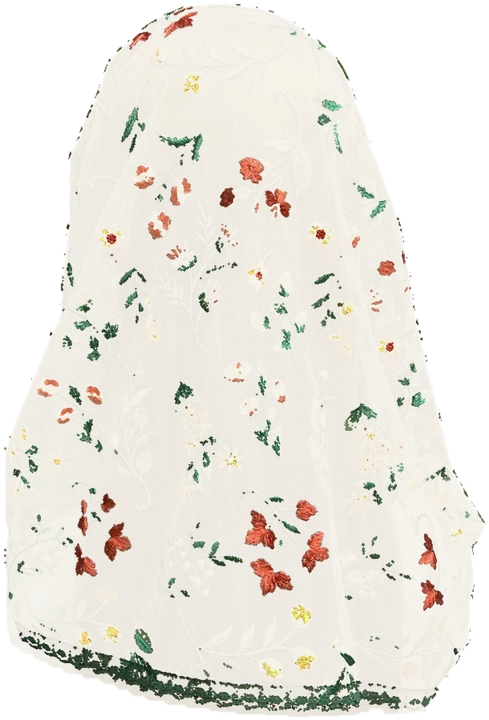
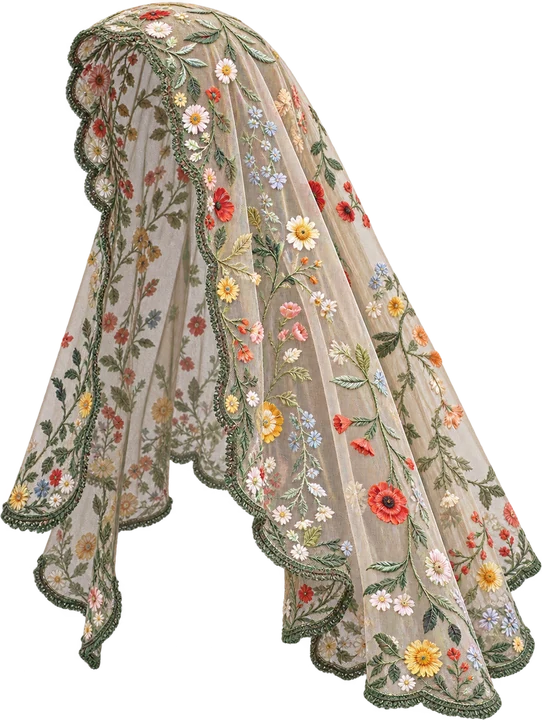
update

diff --git a/src/palais/clothes.ts b/src/palais/clothes.ts
@@ -305,6 +305,7 @@ export const CLOTHES = wardrobe({
   "peacock-dress": { label: "Peacock dress · beaded sheer bodice and a train of peacock feathers", store: "Closet", bought: "", kind: "gown" },
   "rhianna-dress": { label: "Rhianna dress · marigold brocade gown trimmed in fur", store: "Closet", bought: "", kind: "gown" },
   "yellow-ball-gown": { label: "Yellow ball gown · beaded corset and sunset organza", store: "Closet", bought: "", kind: "gown" },
+  "etsy-wildflower-embroidered-gown": { label: "Ivory tulle gown embroidered with wildflowers", store: "Etsy", bought: "", kind: "gown" },
   "peacock-wings": { label: "Peacock feather wings", store: "Closet", bought: "", kind: "accessory" },
   "outfit_suit_brocade_robe_crimson_gold_regal_sticker": { label: "Crimson suit under a gold brocade robe · black gloves and jeweled brooches", store: "Closet", bought: "", kind: "robe" },
   "cape_royal_pleated_jeweled_cobalt_blue_sticker": { label: "Royal cobalt blue pleated cape · jeweled capelet trimmed in ivory fur", store: "Closet", bought: "", kind: "robe" },
@@ -434,7 +435,7 @@ const WIDE: Line[] = [
   { id: "window-hooks-left", name: "Window moulding · hooks down the left", ids: ["pink-sherpa-pom-pom-bucket-bag"], from: [601, 336], to: [601, 636], w: [54, 54], hang: true, z: 36, hooks: 6 },
   { id: "seat", name: "Window seat", ids: ["temu-saddle-bag", "shein-fluffy-shawl", "temu-bow-handbag", "white-prada-re-edition-shoulder-bag", "louis-vuitton-denim-monogram-pochette", "louis-vuitton-damier-azur-felicie-pochette"], from: [918, 690], to: [1020, 690], w: [74, 74], z: 20 },
   // the two rolling rails
-  { id: "rack-left", name: "Left rolling rack", ids: ["ref-shai-dress", "amz-tulle-dress-blue", "amz-tulle-dress-green", "cider-ruffle-velvet-dress", "amz-fairies-dress", "temu-ditsy-splitdress", "temu-satin-robe", "cider-velvet-corset-dress", "shein-green-organza-dress", "wona-istanbul-chiffon-ruffle-dress-black", "blue-corset-mini-dress", "black-beige-pleated-belted-dress", "denim-corset-flared-dress", "hm-black-white-piped-keyhole-mini-dress", "mint_green_ruffled_corset_gown_sticker", "powder_blue_scarf_maxi_dress_sticker", "arianna-dress", "peacock-dress", "rhianna-dress", "yellow-ball-gown", "navy-celestial-velvet-gown", "black-bow-glitter-tulle-gown"], from: [622, 612], to: [868, 612], w: [118, 118], hang: true, z: 46 },
+  { id: "rack-left", name: "Left rolling rack", ids: ["ref-shai-dress", "amz-tulle-dress-blue", "amz-tulle-dress-green", "cider-ruffle-velvet-dress", "amz-fairies-dress", "temu-ditsy-splitdress", "temu-satin-robe", "cider-velvet-corset-dress", "shein-green-organza-dress", "wona-istanbul-chiffon-ruffle-dress-black", "blue-corset-mini-dress", "black-beige-pleated-belted-dress", "denim-corset-flared-dress", "hm-black-white-piped-keyhole-mini-dress", "mint_green_ruffled_corset_gown_sticker", "powder_blue_scarf_maxi_dress_sticker", "arianna-dress", "peacock-dress", "rhianna-dress", "yellow-ball-gown", "etsy-wildflower-embroidered-gown", "navy-celestial-velvet-gown", "black-bow-glitter-tulle-gown"], from: [622, 612], to: [868, 612], w: [118, 118], hang: true, z: 46 },
   { id: "rack-right", name: "Right rolling rack", ids: ["dh-puffer-jacket", "etsy-burgundy-velvet-hooded-coat", "white-fur-hood-parka", "dh-goose-jacket-pink", "amz-floral-sweatshirt", "shein-halfzip", "temu-tie-cardigan", "temu-heart-bikini", "dh-fur-coat", "dh-cc-bikini", "tt-striped-vest-set", "tt-striped-collar-set", "rhone-utility-trench-navy", "zeagoo-fur-lapel-wool-coat-navy", "maroon-wool-trench-coat", "green-wool-cropped-jacket-ruffle-skirt-set", "navy_satin_lace_slip_dress_sticker", "cream_rose_floral_lace_dress_sticker", "ivory_satin_lace_slip_dress_sticker", "forest_green_lace_satin_dress_sticker"], from: [1066, 612], to: [1314, 612], w: [112, 104], hang: true, z: 46 },
   // every pair of shoes, lined up on the tiles in front
   { id: "shoes", name: "Shoes on the floor", ids: ["shein-mint-maryjanes", "amz-coutgo-heels", "amz-lolita-maryjanes", "amz-maryjanes-kalstage", "amz-tstrap-maryjanes", "shein-bow-loafers", "amz-birkenstock-gizeh", "temu-hamster-slippers", "amz-roller-skates", "dh-rain-boots", "tt-black-slingbacks", "tt-red-slingbacks", "shein-fur-snow-boots", "bw-bow-slingback-heels", "bw-bow-slingback-heels-front", "sage-burgundy-bow-slingback-heels", "yellow-bow-kitten-heels", "black-patent-chain-platform-loafers", "black-patent-triple-strap-platform-mary-janes", "louis-vuitton-damier-peep-toe-heels", "louis-vuitton-damier-peep-toe-heels-front", "green-suede-lace-up-block-heels", "cider-brown-knee-high-boots", "black-white-tstrap-pointed-pumps", "black-patent-gold-buckle-mary-jane-heels"], from: [560, 1030], to: [1380, 1030], w: [84, 84], z: 60 },
@@ -473,7 +474,7 @@ const TALL: Line[] = [
   { id: "window-hooks-side", name: "Window moulding · hooks down the right", ids: ["etsy-purple-veil", "etsy-green-lace-veil", "etsy-floral-embroidered-veil", "etsy-gold-floral-veil", "etsy-black-gold-veil-long", "temu-mantilla", "etsy-bernadette-veil", "light-blue-floral-lace-trim-head-scarf", "pink-floral-lace-trim-head-scarf"], from: [610, 524], to: [610, 838], w: [46, 46], hang: true, z: 36, hooks: 5 },
   { id: "mirror", name: "Top of the mirror", ids: ["shein-ballet-bows"], from: [655, 560], to: [655, 560], w: [40, 40], hang: true, z: 20 },
   // the rolling rails: the far one with the dresses, the near one with knits and swim
-  { id: "rack-back", name: "Back rolling rack", ids: ["amz-tulle-dress-blue", "amz-tulle-dress-green", "amz-fairies-dress", "temu-ditsy-splitdress", "temu-satin-robe", "ref-shai-dress", "cider-velvet-corset-dress", "cider-ruffle-velvet-dress", "romi-miranda-dress", "cider-jacquard-bandeau-dress", "cider-wine-bandeau-dress", "shein-green-organza-dress", "yellow-floral-dress", "brown-bow-dress", "prada-ivory-tweed-two-piece", "prada-black-tweed-two-piece", "prada-pink-tweed-two-piece", "cider-suede-bow-pinafore", "cider-brown-corduroy-daisy-pinafore", "maroon-corduroy-overall-dress", "lavender-flower-dress", "wona-istanbul-chiffon-ruffle-dress-black", "blue-corset-mini-dress", "black-beige-pleated-belted-dress", "denim-corset-flared-dress", "hm-black-white-piped-keyhole-mini-dress", "navy_satin_lace_slip_dress_sticker", "cream_rose_floral_lace_dress_sticker", "ivory_satin_lace_slip_dress_sticker", "forest_green_lace_satin_dress_sticker", "mint_green_ruffled_corset_gown_sticker", "powder_blue_scarf_maxi_dress_sticker", "arianna-dress", "peacock-dress", "rhianna-dress", "yellow-ball-gown", "navy-celestial-velvet-gown", "black-bow-glitter-tulle-gown"], from: [236, 1040], to: [704, 1040], w: [78, 78], hang: true, z: 30 },
+  { id: "rack-back", name: "Back rolling rack", ids: ["amz-tulle-dress-blue", "amz-tulle-dress-green", "amz-fairies-dress", "temu-ditsy-splitdress", "temu-satin-robe", "ref-shai-dress", "cider-velvet-corset-dress", "cider-ruffle-velvet-dress", "romi-miranda-dress", "cider-jacquard-bandeau-dress", "cider-wine-bandeau-dress", "shein-green-organza-dress", "yellow-floral-dress", "brown-bow-dress", "prada-ivory-tweed-two-piece", "prada-black-tweed-two-piece", "prada-pink-tweed-two-piece", "cider-suede-bow-pinafore", "cider-brown-corduroy-daisy-pinafore", "maroon-corduroy-overall-dress", "lavender-flower-dress", "wona-istanbul-chiffon-ruffle-dress-black", "blue-corset-mini-dress", "black-beige-pleated-belted-dress", "denim-corset-flared-dress", "hm-black-white-piped-keyhole-mini-dress", "navy_satin_lace_slip_dress_sticker", "cream_rose_floral_lace_dress_sticker", "ivory_satin_lace_slip_dress_sticker", "forest_green_lace_satin_dress_sticker", "mint_green_ruffled_corset_gown_sticker", "powder_blue_scarf_maxi_dress_sticker", "arianna-dress", "peacock-dress", "rhianna-dress", "yellow-ball-gown", "etsy-wildflower-embroidered-gown", "navy-celestial-velvet-gown", "black-bow-glitter-tulle-gown"], from: [236, 1040], to: [704, 1040], w: [78, 78], hang: true, z: 30 },
   { id: "rack-front", name: "Front rolling rack", ids: ["amz-floral-sweatshirt", "shein-halfzip", "temu-tie-cardigan", "temu-heart-bikini", "temu-beach-swimsuit", "dh-goose-jacket-pink", "dh-puffer-jacket", "etsy-burgundy-velvet-hooded-coat", "white-fur-hood-parka", "dh-fur-coat", "dh-cc-bikini", "tt-striped-vest-set", "tt-striped-collar-set", "cream-fluffy-coat", "brown-quilted-knit-jacket", "rhone-utility-trench-navy", "zeagoo-fur-lapel-wool-coat-navy", "maroon-wool-trench-coat", "green-wool-cropped-jacket-ruffle-skirt-set", "cloud_cardigan_blue_white_knit_sticker", "grape-cluster-organza-mermaid-gown", "macaw-print-gold-silk-ball-gown", "midnight-star-flamingo-embroidered-gown", "midsommar-wildflower-gown"], from: [150, 1255], to: [790, 1255], w: [96, 96], hang: true, z: 40 },
   // on the tiles in front
   { id: "floor-front", name: "On the floor · front", ids: ["ivory-ribbon-hair-bow"], from: [140, 1520], to: [800, 1520], w: [58, 58], z: 50 },
@@ -561,6 +562,7 @@ const SIZE: Partial<Record<GarmentId, number>> = {
   "romi-alya-dress": 0.78,
   "ivory-strapless-full-skirt-maxi-dress": 0.72,
   "cider-brown-floral-mermaid-maxi": 0.74,
+  "etsy-wildflower-embroidered-gown": 0.72,
   "denim-corset-flared-dress": 0.72,
   "black-beige-pleated-belted-dress": 0.8,
   "mint_green_ruffled_corset_gown_sticker": 0.72,

diff --git a/src/palais/DressUp.tsx b/src/palais/DressUp.tsx
@@ -117,6 +117,9 @@ const WEAR: Partial<Record<string, Partial<(typeof FIT)[ClothesKind]>>> = {
   "etsy-gold-floral-veil": { top: 0.0, w: 0.32, h: 0.38 },          // crown to elbow
   "pink-floral-lace-trim-head-scarf": { top: 0.0, w: 0.32, h: 0.36 },  // crown to elbow
   "etsy-purple-veil": { top: 0.0, w: 0.32, h: 0.36 },               // crown to elbow
+  // its crown sits a third of the way across, not in the middle, so it is
+  // nudged right to land on her head
+  "etsy-bernadette-veil": { top: 0.0, w: 0.32, h: 0.36, side: 0.17 },
   // A cathedral veil. Its picture is not centred on the crown — the head sits
   // at a seventh of the way across and the train sweeps off to the right — so
   // it is pushed right until the crown lands on her head.
